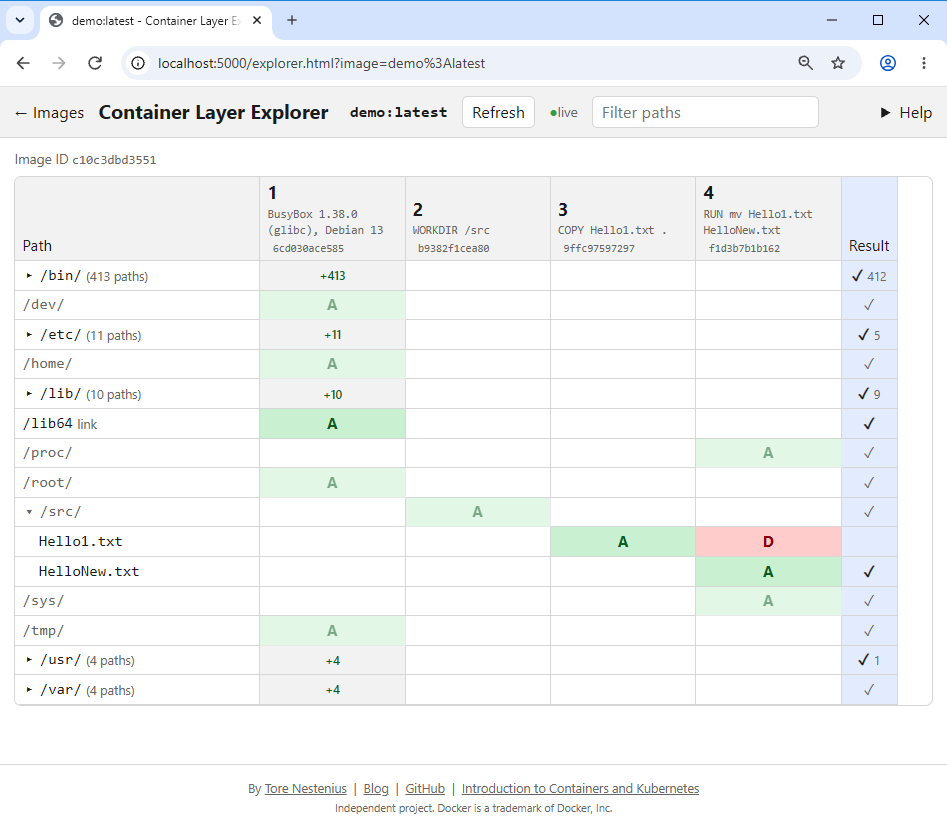
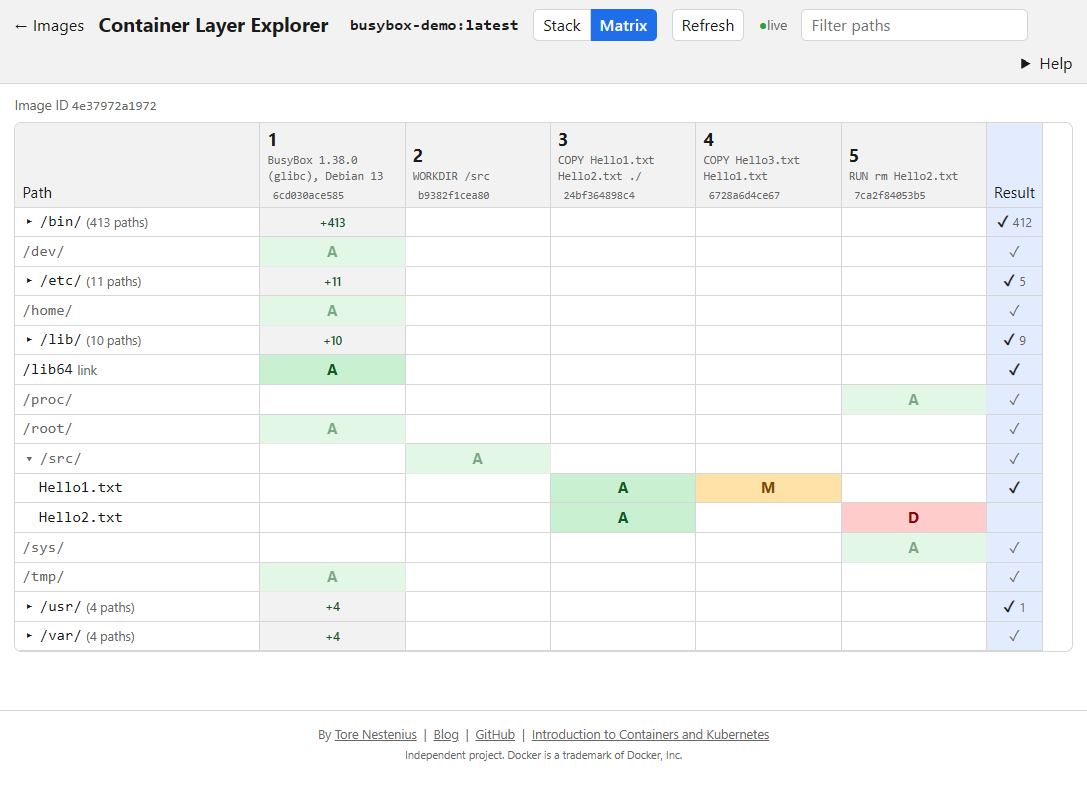
Refactorings

diff --git a/src/ContainerLayerExplorer/wwwroot/explorer.html b/src/ContainerLayerExplorer/wwwroot/explorer.html
@@ -12,8 +12,8 @@
     <h1>Container Layer Explorer</h1>
     <span id="image-name" class="imagename"></span>
     <div class="viewswitch" role="group" aria-label="View">
-      <button id="view-stack" type="button" aria-pressed="true" title="The image as a stack of layers, and what the image reveals">Stack</button>
-      <button id="view-matrix" type="button" aria-pressed="false" title="Paths and layers: what each layer adds, changes or deletes">Matrix</button>
+      <button id="view-stack" type="button" aria-pressed="false" title="The image as a stack of layers, and what the image reveals">Stack</button>
+      <button id="view-matrix" type="button" aria-pressed="true" title="Paths and layers: what each layer adds, changes or deletes">Matrix</button>
     </div>
     <button id="refresh" type="button" title="Reload the image">Refresh</button>
     <span id="live" class="live" title="Rebuilds of this image show up automatically">live</span>
@@ -21,8 +21,8 @@
     <details class="help">
       <summary>Help</summary>
       <div class="help-body">
-        <p><b>Stack</b> draws the image as layers, the first build step at the bottom and the last on top. Thin 0 B rows are steps that make no layer, such as <code>ENV</code>. The right side shows what is selected: the image ("What this image reveals", what anyone who has the image can read from its config and manifest), a layer (its details) or a step. Escape goes back to the image.</p>
         <p><b>Matrix</b>: each column is a layer, and each row is a path. Click a cell to see the file, or a column header to see the layer.</p>
+        <p><b>Stack</b> draws the image as layers, the first build step at the bottom and the last on top. Thin 0 B rows are steps that make no layer, such as <code>ENV</code>. The right side shows what is selected: the image ("What this image reveals", what anyone who has the image can read from its config and manifest), a layer (its details) or a step. Escape goes back to the image.</p>
         <p>The page follows this image tag and updates by itself when you rebuild.</p>
         <ul class="legend">
           <li><span class="c Added">A</span> added</li>

diff --git a/src/ContainerLayerExplorer/wwwroot/explorer.js b/src/ContainerLayerExplorer/wwwroot/explorer.js
@@ -1,5 +1,5 @@
 // Container Layer Explorer: the explorer page. It shows one image, the tag in the address (explorer.html?image=name),
-// and follows rebuilds of it. Two views: the Stack (drawn by stack.js, shown first) and the Matrix (here).
+// and follows rebuilds of it. Two views: the Matrix (here, shown first) and the Stack (drawn by stack.js).
 // Talks only to /api (see Api/Endpoints.cs). No framework.
 // Loaded as a module (explorer.html), so it is strict already and can use top-level await.
 import { $, debounce, esc, fmtSize, getJson, hideMessage, listenToDocker, setLive, shortCmd, shortId, showMessage, writeSetting } from "./common.js";
@@ -17,7 +17,7 @@ const MAX_INDENT_LEVELS = 8;   // deeper folders are indented no further, so a d
 
 const state = {
   name: new URLSearchParams(location.search).get("image"),
-  view: "stack",            // "stack" or "matrix"; an image always opens in the Stack view
+  view: "matrix",           // "matrix" or "stack"; an image always opens in the Matrix view
   current: null,            // { id, name, model }
   tags: [],                 // every tag of the image shown, from /api/images
   previous: new Map(),      // image name -> diff IDs of the build shown before (for the NEW badges)

diff --git a/README.md b/README.md
@@ -3,9 +3,9 @@
 [![Build and test](https://github.com/tndata/ContainerLayerExplorer/actions/workflows/build-and-test.yml/badge.svg)](https://github.com/tndata/ContainerLayerExplorer/actions/workflows/build-and-test.yml)
 [![License: MIT](https://img.shields.io/badge/license-MIT-blue.svg)](LICENSE)
 
-Container Layer Explorer is a local web tool for exploring Docker and OCI image layers. It shows which files each layer of a container image adds, changes or deletes, as a matrix of file paths and layers, and it updates automatically when you rebuild the image.
+Container Layer Explorer is a local web tool for exploring Docker and OCI image layers. It shows which files each layer of a container image adds, changes or deletes, as a matrix of file paths and layers, and it updates automatically when you rebuild the image. It also draws the image as a stack of layers and shows what the image config and manifest reveal.
 
-![The layer matrix of a small image: one column per layer, one row per path, with added and deleted cells and a Result column](docs/images/matrix.png)
+![The Matrix view of the sample image: one column per layer, one row per path, with added (A), changed (M) and deleted (D) cells and a Result column](docs/images/matrix.png)
 
 ## Why I built it
 
@@ -13,15 +13,21 @@ When I teach containers, one challenge is to present image building in an intuit
 
 ## What it shows
 
-- **The image as a stack.** An image opens in the Stack view: the layers drawn bottom to top, the first build step at the bottom and the last on top, each with its build command, a short layer ID and its size. Thin 0 B rows are the steps that make no layer, such as `ENV` and `LABEL`. Above the stack are the image ID, creation time, platform, total size and how much stored data a container can no longer see because a later layer deleted or replaced it.
-- **What an image reveals.** With the image selected, the right side lists what anyone with a copy of the image can read from its config and manifest: creation time, build steps, author, labels, environment variables, user, ports, volumes, health check and more. Each row says where the fact comes from, and an empty row says what is missing.
-- **Layer details.** Click a layer in the stack to see its details instead: the build step and its time, both fingerprints (content and stored blob), the sizes and compression, what it adds, changes and deletes, its biggest files, how much of its data later layers hide, and permission facts such as setuid programs and world-writable folders. A step without a layer can be clicked too.
-- **Live update.** Build or rebuild an image and the page follows it. A layer that is new since your previous build gets a NEW badge, and the layers that came from the build cache do not.
-- **A matrix of paths and layers.** One row per file or folder, one column per layer. Each cell says if the layer added (A), changed (M) or deleted (D) that path.
+- **A matrix of paths and layers.** An image opens in the Matrix view: one row per file or folder, one column per layer. Each cell says if the layer added (A), changed (M) or deleted (D) that path, and the Result column shows what a container gets.
 - **How deletions work.** A deleted file is only hidden by a whiteout marker in a later layer. The file is still in the layer below, so the image does not get smaller. The tool shows that.
 - **File contents.** Click a cell to see what the layer did to that path and, for a text file, its content in that layer.
 - **The build steps.** Each layer column shows the Dockerfile step behind it. Click the column header for the full command and the steps that make no layer, such as `ENV` and `CMD`.
 - **Large images.** The folders directly under `/` start collapsed into one summary row each, with the number of paths and what each layer adds, changes or deletes in them. Expand what you want to look at. A filter box narrows the paths.
+- **The image as a stack.** Switch to the Stack view to see the layers drawn bottom to top, the first build step at the bottom and the last on top, each with its build command, a short layer ID, its compressed size and the size of its files. Thin 0 B rows are the steps that make no layer, such as `ENV` and `LABEL`. Above the stack are the image's tags, image ID, creation time, platform, the number of layers and build steps, and the size of the files and of the stored, compressed layers.
+- **What an image reveals.** With the image selected, the right side lists what anyone with a copy of the image can read from its config and manifest: creation time, build steps, author, labels, environment variables, user, ports, volumes, health check and more. Each row says where the fact comes from, and an empty row says what is missing.
+
+  ![The Stack view of the sample image: the image facts at the top, the five layers drawn as a stack on the left, and what the image reveals on the right](docs/images/stack.png)
+
+- **Layer details.** Click a layer in the stack to see its details instead: the build step and its time, both fingerprints (content and stored blob), the sizes and compression, what it adds, changes and deletes, its biggest files, how much of its data later layers hide, and permission facts such as setuid programs and world-writable folders. A step without a layer can be clicked too.
+
+  ![The Stack view with layer 3 selected: its build step, fingerprints, sizes, changes and biggest files on the right](docs/images/stack-layer.png)
+
+- **Live update.** Build or rebuild an image and the page follows it. A layer that is new since your previous build gets a NEW badge, and the layers that came from the build cache do not.
 - **A start page.** It lists the images in your local Docker, updates live, and shows a message when Docker is not running.
 
 ## Requirements
@@ -54,7 +60,7 @@ When I teach containers, one challenge is to present image building in an intuit
    docker build -t demo .
    ```
 
-4. In the tool, pick `demo` and choose **Explore**. The Stack view shows one layer; switch to **Matrix** to see its one file.
+4. In the tool, pick `demo` and choose **Explore**. The Matrix view shows one layer column and its one file. Switch to **Stack** to see the same layer drawn as a stack.
 
    ![The start page: Docker status and the list of local images](docs/images/start-page.png)
 
@@ -72,7 +78,7 @@ The tests do not need Docker: `dotnet test`.
 
 ## Try the sample
 
-The folder [samples/busybox-basics](samples/busybox-basics) holds a small `FROM busybox` image that shows all three kinds of change: added, changed and deleted.
+The folder [samples/busybox-basics](samples/busybox-basics) holds a small image built on `busybox:1.38.0-glibc` that shows all three kinds of change: added, changed and deleted.
 
 1. With the tool running, build the sample from the folder of this repository. It makes an image called `busybox-demo`:
 
@@ -80,10 +86,10 @@ The folder [samples/busybox-basics](samples/busybox-basics) holds a small `FROM 
    docker build -t busybox-demo samples/busybox-basics
    ```
 
-2. In the tool, pick `busybox-demo` and choose **Explore**. The Stack view shows the five layers, BusyBox at the bottom.
-3. Switch to **Matrix** and look at the `/src` folder:
+2. In the tool, pick `busybox-demo` and choose **Explore**. The Matrix view shows the five layers as columns, BusyBox in layer 1. Look at the `/src` folder:
    - `Hello1.txt` is added in layer 3 (A) and changed in layer 4 (M). Click the M cell: the layer stores the whole new file, and the old version is still stored in layer 3.
    - `Hello2.txt` is added in layer 3 and deleted in layer 5 (D). Click the D cell: the file is only hidden by a whiteout marker. Its data is still in layer 3, so the image did not get smaller.
+3. Switch to **Stack** to see the same five layers drawn as a stack, BusyBox at the bottom, and what the image reveals. Click a layer for its details.
 4. Edit the `Dockerfile`, for example add another `COPY` line, and run the same `docker build` command again. Keep the page open and it updates by itself, with a NEW badge on the new layer.
 
 ## What was tested

diff --git a/CLAUDE.md b/CLAUDE.md
@@ -1,6 +1,6 @@
 # Container Layer Explorer
 
-A local web tool that shows the layers of a Docker/OCI image as a matrix: which files exist in which layer, and what each layer added, changed or deleted. A .NET 10 minimal API with a plain HTML, CSS and JavaScript front end. MIT licensed.
+A local web tool that shows the layers of a Docker/OCI image as a matrix and a stack: which files exist in which layer, and what each layer added, changed or deleted. A .NET 10 minimal API with a plain HTML, CSS and JavaScript front end. MIT licensed.
 
 ## Layout
 
